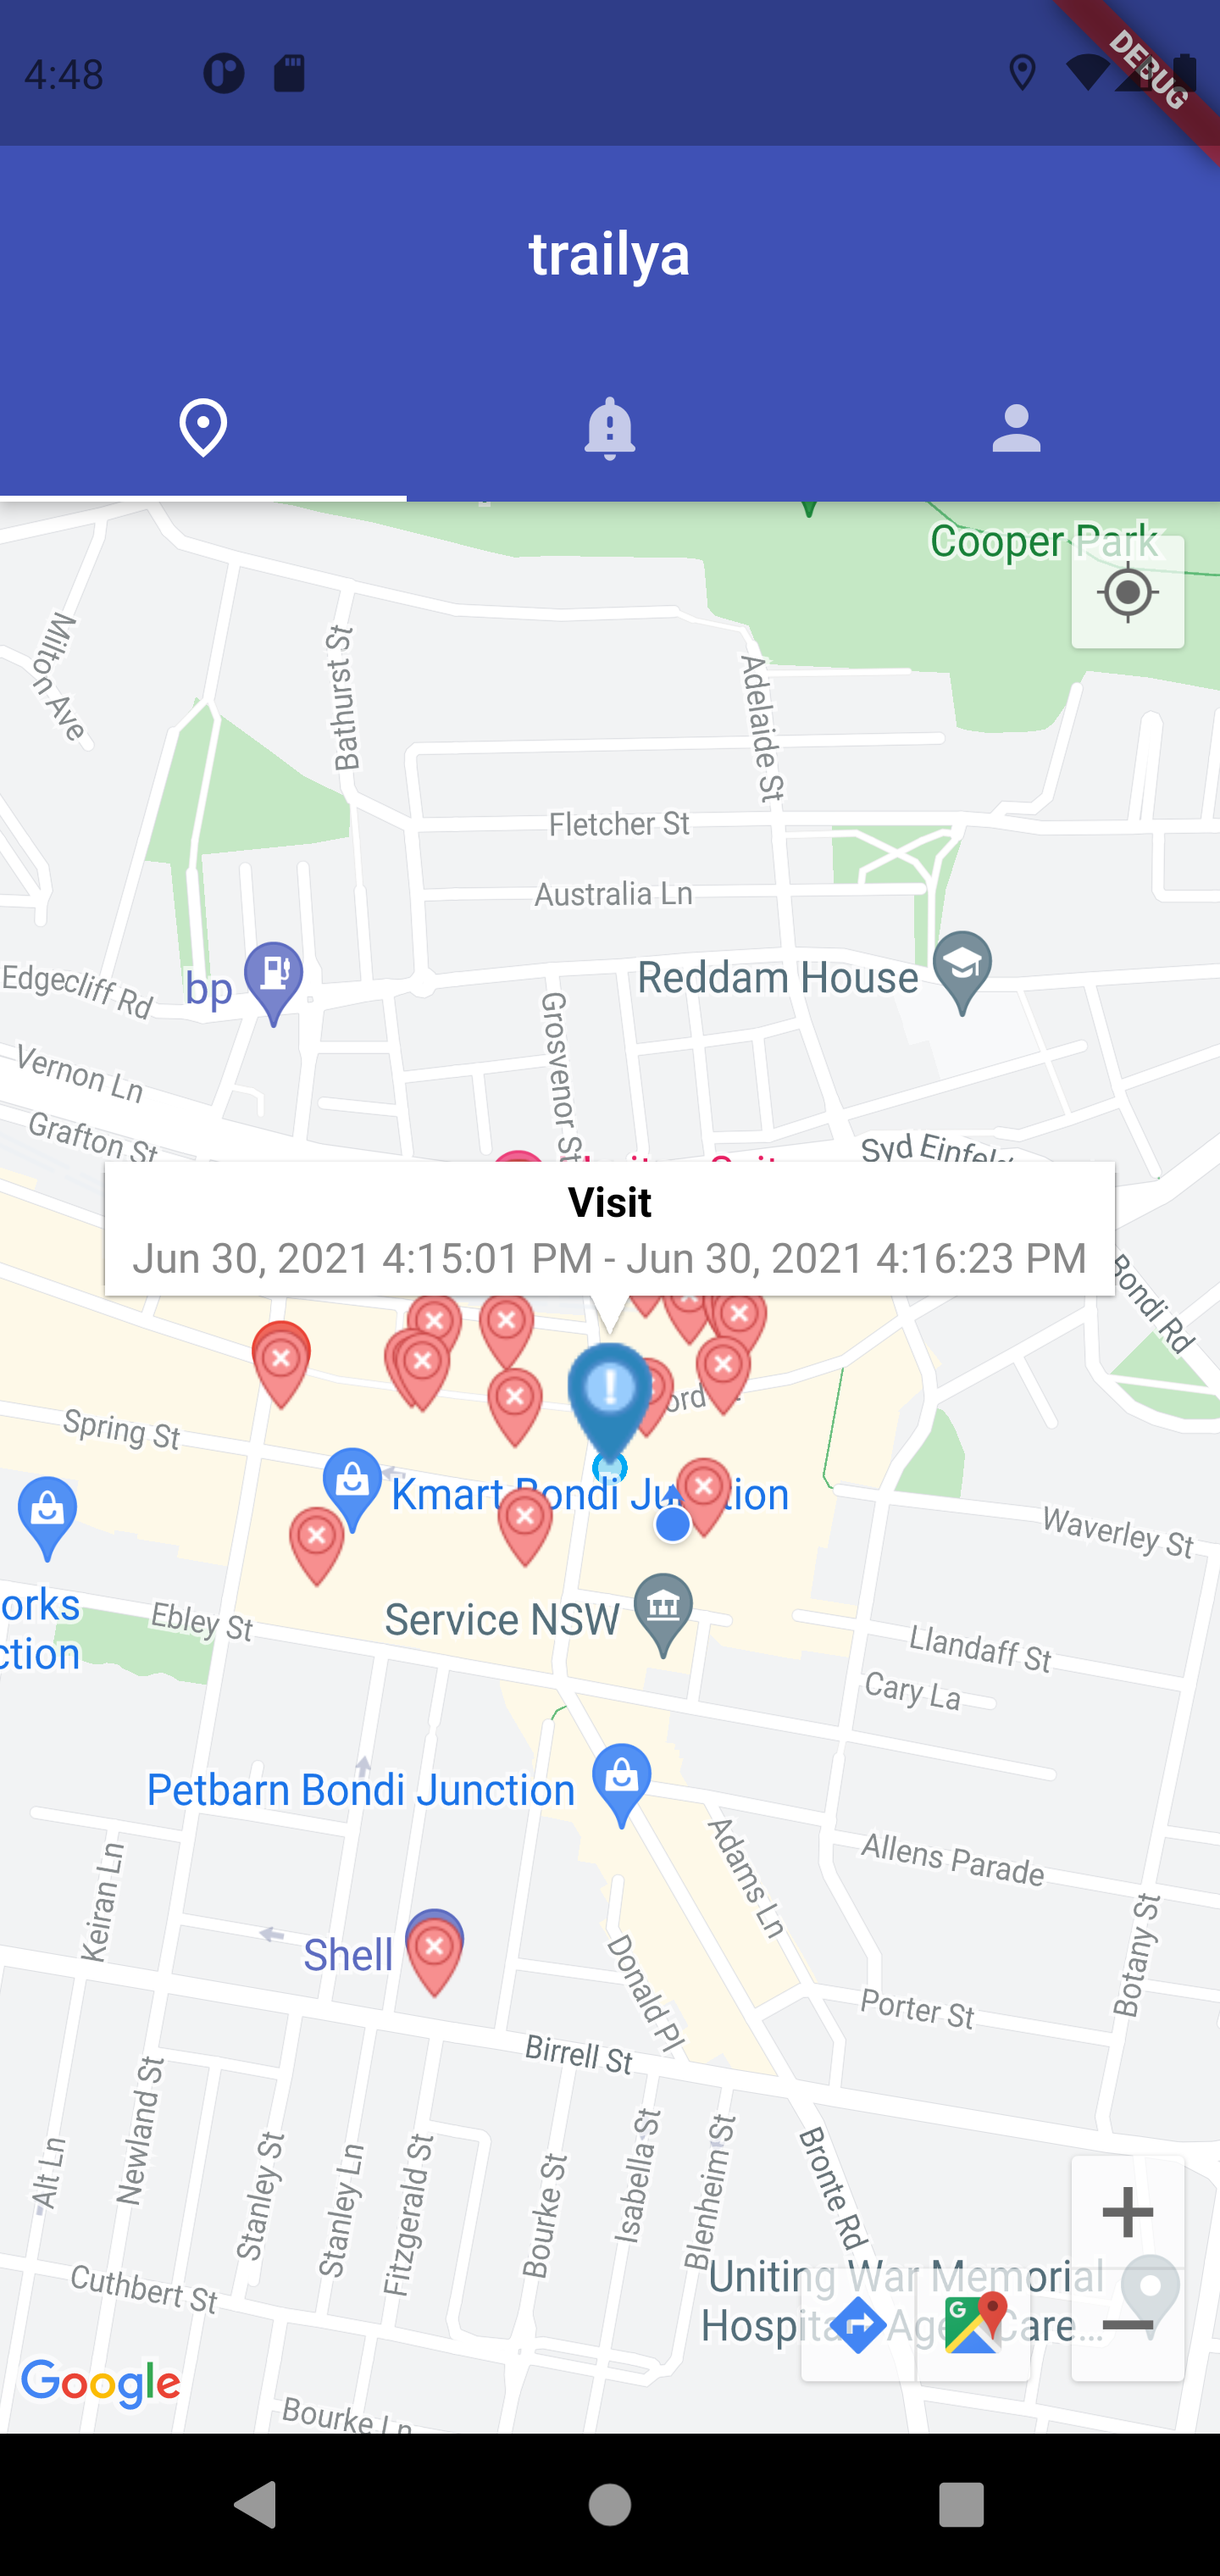
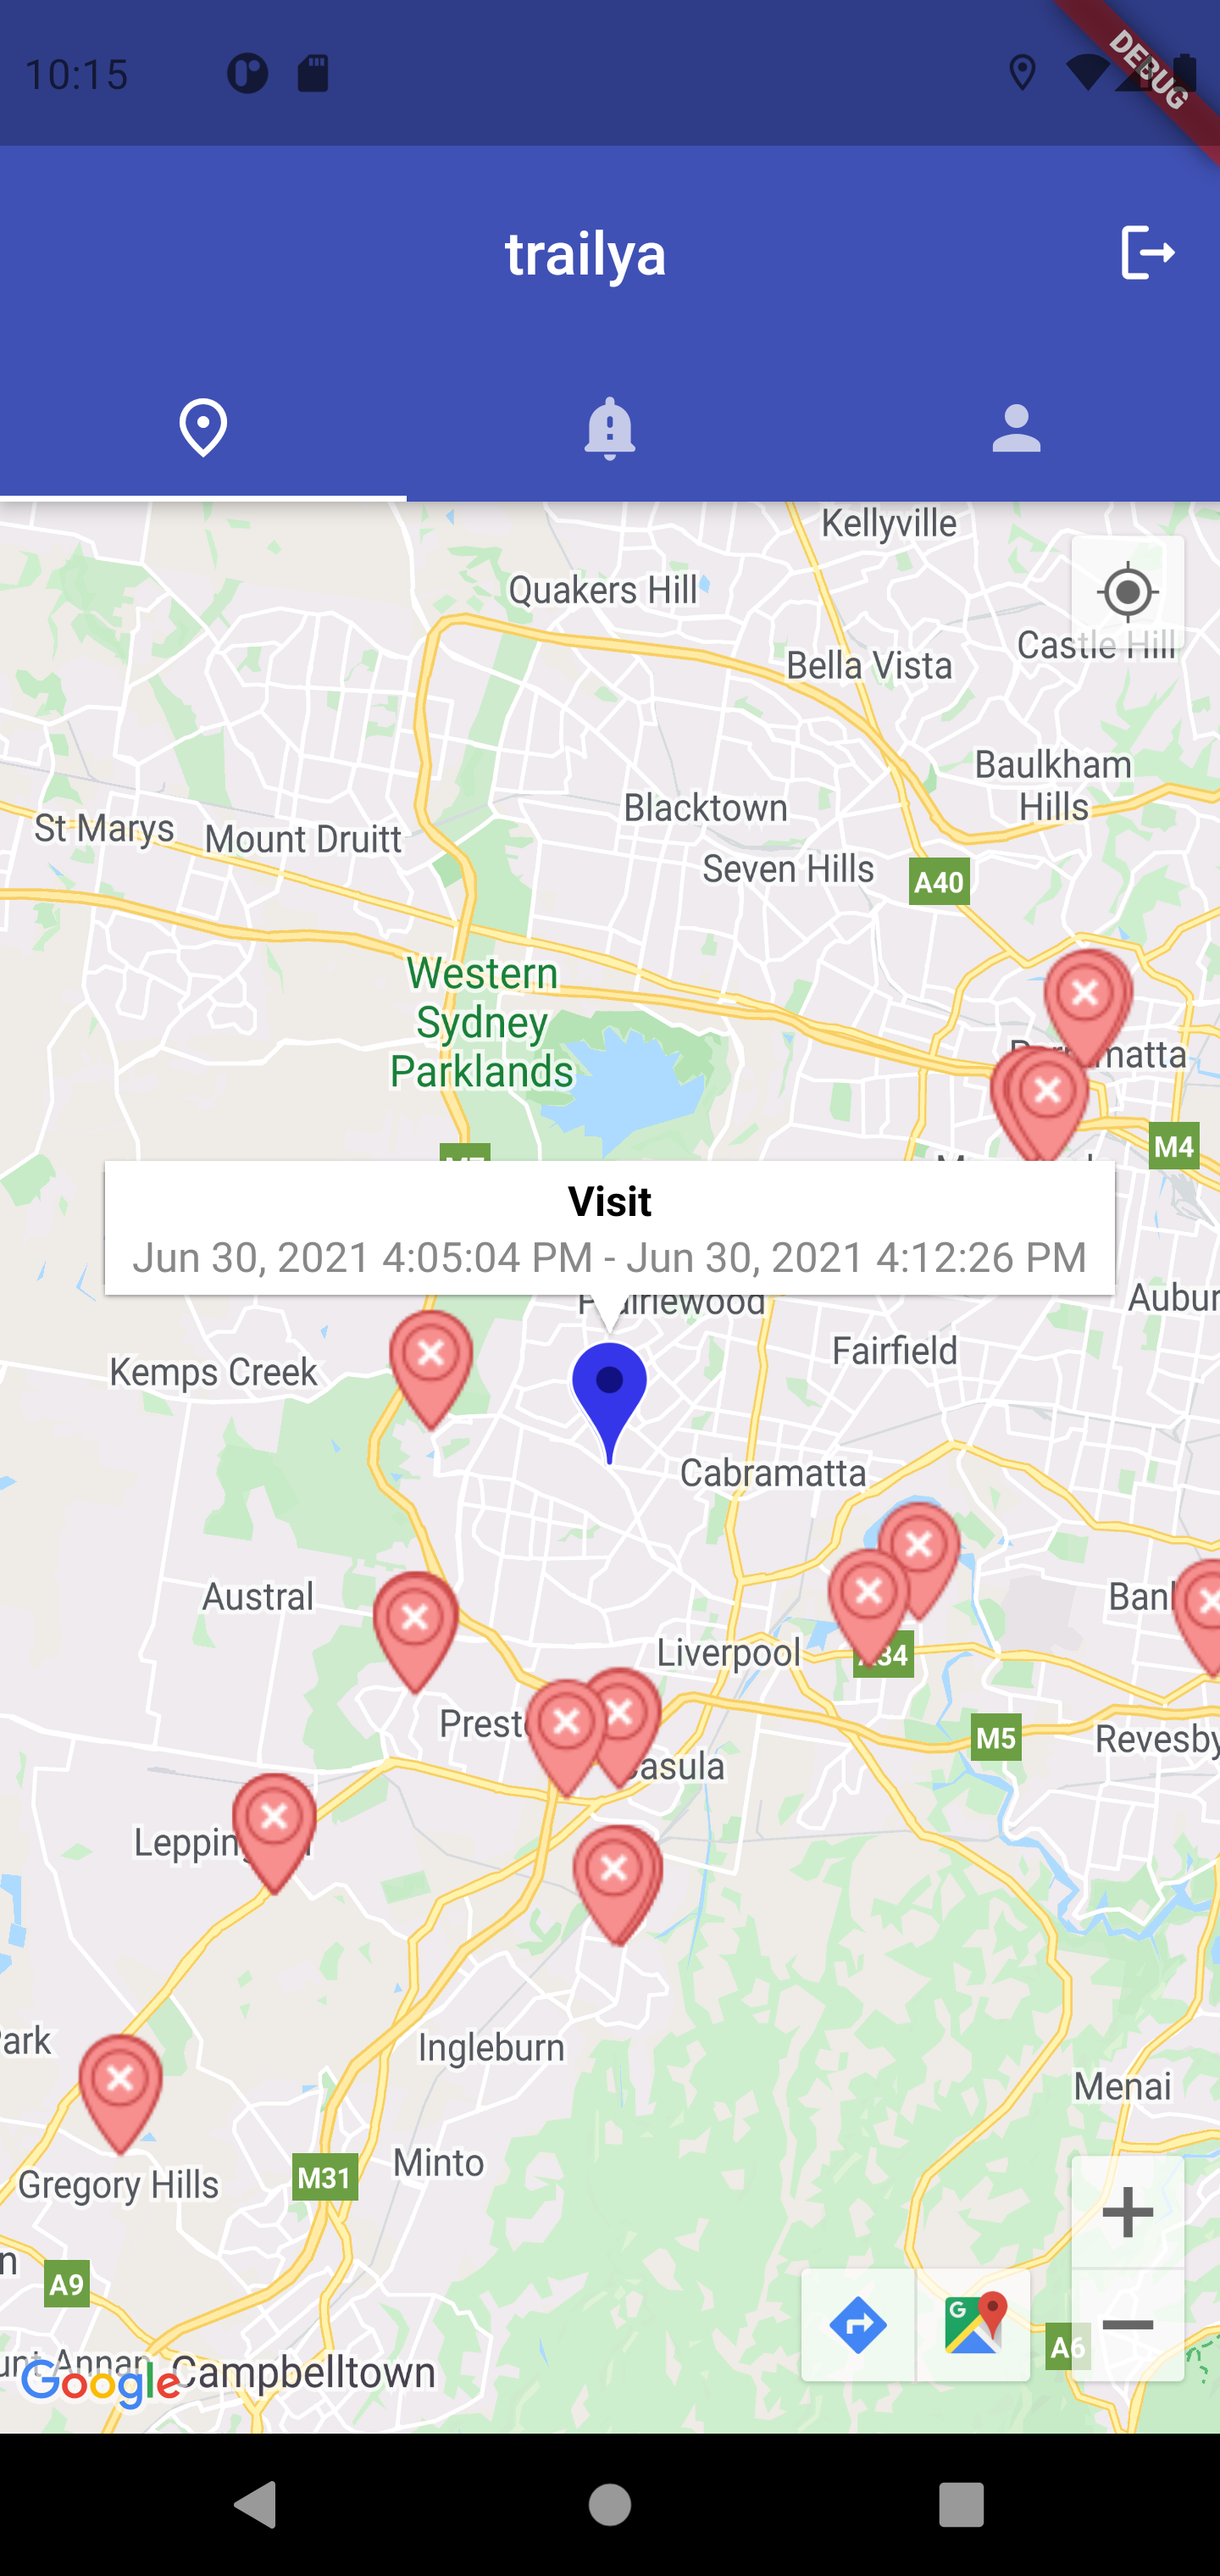
Added logout button

diff --git a/lib/app/home_screen.dart b/lib/app/home_screen.dart
@@ -1,10 +1,13 @@
+import 'package:firebase_auth/firebase_auth.dart';
 import 'package:flutter/material.dart';
 import 'package:provider/provider.dart';
 import 'package:trailya/app/profile_screen.dart';
 import 'package:trailya/app/sites_screen.dart';
 import 'package:trailya/app/visits_screen.dart';
+import 'package:trailya/app/widgets/dialog.dart';
 import 'package:trailya/model/location_notifier.dart';
 import 'package:trailya/model/sites_notifier.dart';
+import 'package:trailya/services/auth.dart';
 import 'package:trailya/services/location_service.dart';
 import 'package:trailya/services/sites_service.dart';
 import 'package:trailya/services/visits_store.dart';
@@ -23,21 +26,29 @@ class HomeScreen extends StatelessWidget {
           locationService: Provider.of<LocationService>(context, listen: false),
           visitsStore: Provider.of<VisitsStore>(context, listen: false),
         ),
-        child: _buildContent(),
+        child: _buildContent(context),
       ),
     );
   }
 
-  DefaultTabController _buildContent() {
+  DefaultTabController _buildContent(BuildContext context) {
     return DefaultTabController(
       length: 3,
       child: Scaffold(
         appBar: AppBar(
+          centerTitle: true,
           title: Center(
             child: Text('trailya'),
           ),
           elevation: 5.0,
           toolbarHeight: 120,
+          actions: [
+            IconButton(
+              icon: Icon(Icons.logout_rounded),
+              tooltip: 'Logout',
+              onPressed: () => _confirmSignOut(context),
+            ),
+          ],
           bottom: TabBar(
             tabs: [
               Tab(icon: Icon(Icons.place_outlined)),
@@ -62,5 +73,28 @@ class HomeScreen extends StatelessWidget {
                 )),
       ),
     );
+  }
+
+  Future<void> _signOut(BuildContext context) async {
+    try {
+      final auth = Provider.of<FirebaseAuthentication>(context, listen: false);
+      await auth.signOut();
+    } catch (e) {
+      print(e.toString());
+    }
+  }
+
+  Future<void> _confirmSignOut(BuildContext context) async {
+    final didRequestSignOut = await showAlertDialog(
+      context,
+      title: 'Logout',
+      content: 'Are you sure that you want to logout?',
+      cancelActionText: 'Cancel',
+      defaultActionText: 'Logout',
+    );
+
+    if (didRequestSignOut == true) {
+      await _signOut(context);
+    }
   }
 }

diff --git a/lib/app/profile_screen.dart b/lib/app/profile_screen.dart
@@ -1,8 +1,4 @@
 import 'package:flutter/material.dart';
-import 'package:provider/provider.dart';
-import 'package:trailya/app/widgets/custom_button.dart';
-import 'package:trailya/app/widgets/dialog.dart';
-import 'package:trailya/services/auth.dart';
 
 class ProfileScreen extends StatefulWidget {
   const ProfileScreen({Key? key}) : super(key: key);
@@ -14,50 +10,6 @@ class ProfileScreen extends StatefulWidget {
 class _ProfileScreenState extends State<ProfileScreen> {
   @override
   Widget build(BuildContext context) {
-    return Center(
-      child: Padding(
-        padding: const EdgeInsets.all(16.0),
-        child: Column(
-          mainAxisAlignment: MainAxisAlignment.start,
-          crossAxisAlignment: CrossAxisAlignment.stretch,
-          children: [
-            CustomButton(
-              color: Colors.indigo,
-              onPressed: () => _confirmSignOut(context),
-              child: Text(
-                'Logout',
-                style: TextStyle(
-                  fontSize: 15.0,
-                  color: Colors.white,
-                ),
-              ),
-            ),
-          ],
-        ),
-      ),
-    );
-  }
-
-  Future<void> _signOut(BuildContext context) async {
-    try {
-      final auth = Provider.of<FirebaseAuthentication>(context, listen: false);
-      await auth.signOut();
-    } catch (e) {
-      print(e.toString());
-    }
-  }
-
-  Future<void> _confirmSignOut(BuildContext context) async {
-    final didRequestSignOut = await showAlertDialog(
-      context,
-      title: 'Logout',
-      content: 'Are you sure that you want to logout?',
-      cancelActionText: 'Cancel',
-      defaultActionText: 'Logout',
-    );
-
-    if (didRequestSignOut == true) {
-      await _signOut(context);
-    }
+    return Container();
   }
 }

diff --git a/lib/utils/assets.dart b/lib/utils/assets.dart
@@ -10,7 +10,8 @@ class Assets {
 
   static Future<void> init() async {
     redMarkerIcon = await _loadImage('assets/red-marker.png', 150);
-    blueMarkerIcon = await _loadImage('assets/blue-marker.png', 150);
+    blueMarkerIcon =
+        BitmapDescriptor.defaultMarkerWithHue(BitmapDescriptor.hueBlue);
   }
 
   static Future<BitmapDescriptor> _loadImage(String path, int width) async {

diff --git a/lib/services/auth.dart b/lib/services/auth.dart
@@ -1,7 +1,6 @@
 import 'dart:async';
 
 import 'package:firebase_auth/firebase_auth.dart';
-import 'package:flutter/material.dart';
 import 'package:google_sign_in/google_sign_in.dart';
 
 class FirebaseAuthentication {
